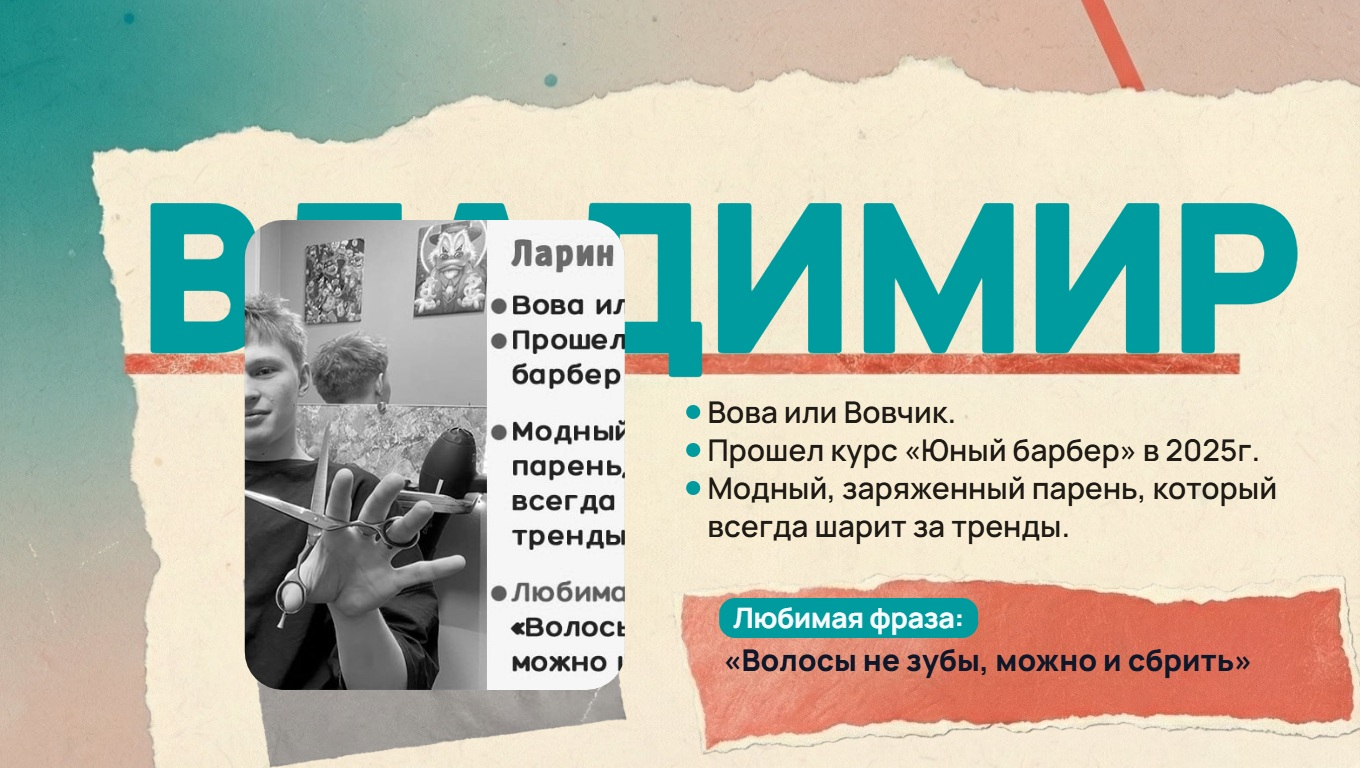
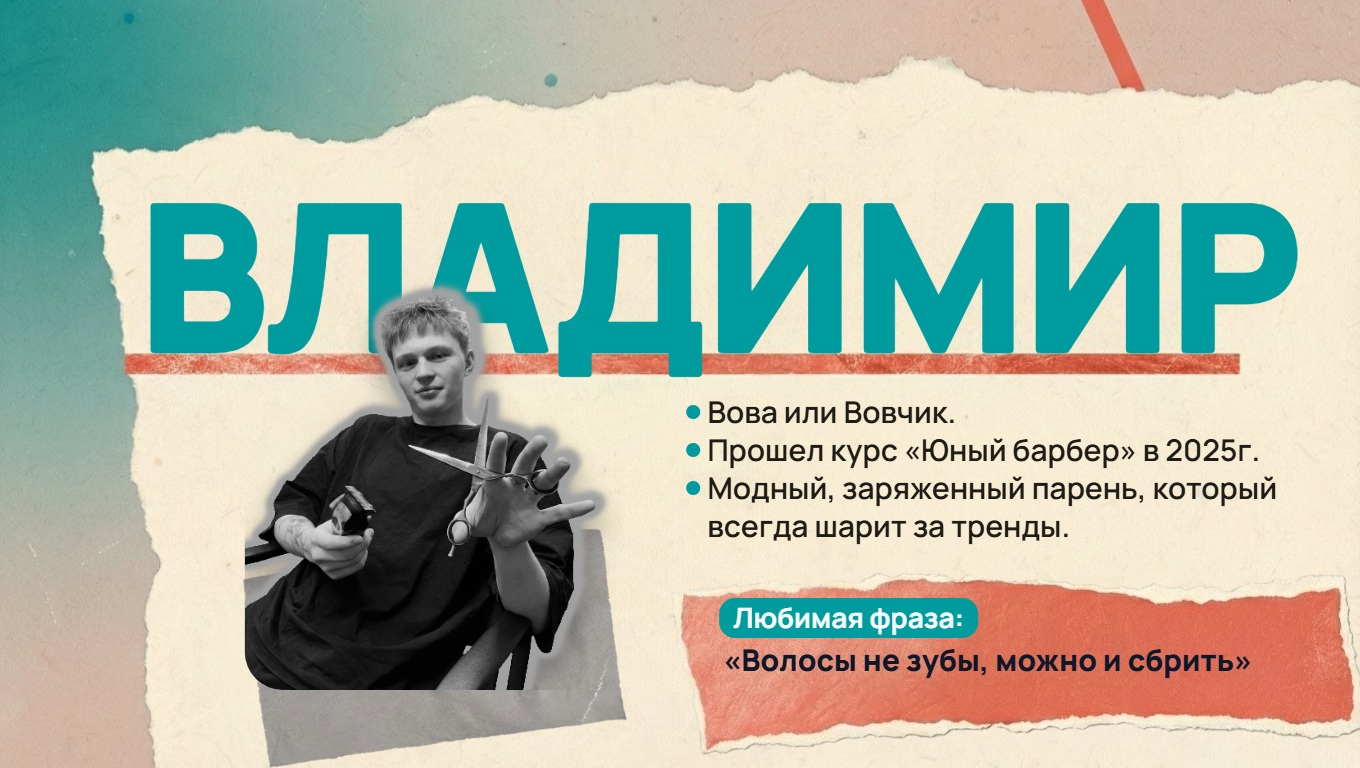
Обнова хромакея

Changed region(s): [[0.1544, 0.2812, 0.4632, 0.9062]]

diff --git a/script.js b/script.js
@@ -1820,6 +1820,111 @@ const readFileAsDataUrl = (file) =>
     reader.onerror = () => reject(new Error('Не удалось прочитать файл'));
     reader.readAsDataURL(file);
   });
+const rgbToHsl = (r, g, b) => {
+  const rn = r / 255;
+  const gn = g / 255;
+  const bn = b / 255;
+  const max = Math.max(rn, gn, bn);
+  const min = Math.min(rn, gn, bn);
+  const delta = max - min;
+  let h = 0;
+  let s = 0;
+  const l = (max + min) / 2;
+  if (delta !== 0) {
+    s = l > 0.5 ? delta / (2 - max - min) : delta / (max + min);
+    switch (max) {
+      case rn:
+        h = (gn - bn) / delta + (gn < bn ? 6 : 0);
+        break;
+      case gn:
+        h = (bn - rn) / delta + 2;
+        break;
+      default:
+        h = (rn - gn) / delta + 4;
+        break;
+    }
+    h *= 60;
+  }
+  return { h, s, l };
+};
+const stripGreenBackground = async (dataUrl, options = {}) => {
+  if (!dataUrl || typeof document === 'undefined') return dataUrl;
+  const {
+    keyHue,
+    hueTolerance = 24,
+    feather = 12,
+    satThreshold = 0.25,
+    greenBias = 16,
+    edgeBandRatio = 0.08,
+    sampleStep = 4,
+  } = options;
+  try {
+    const image = await loadImageElement(dataUrl);
+    const canvas = document.createElement('canvas');
+    canvas.width = image.width || 1;
+    canvas.height = image.height || 1;
+    const ctx = canvas.getContext('2d');
+    ctx.drawImage(image, 0, 0, canvas.width, canvas.height);
+    const imageData = ctx.getImageData(0, 0, canvas.width, canvas.height);
+    const { data } = imageData;
+    const w = canvas.width;
+    const h = canvas.height;
+    const band = Math.max(1, Math.round(Math.min(w, h) * edgeBandRatio));
+    const step = Math.max(1, sampleStep);
+    const greenHues = [];
+    const pushSample = (x, y) => {
+      const idx = (y * w + x) * 4;
+      const r = data[idx];
+      const g = data[idx + 1];
+      const b = data[idx + 2];
+      if (g <= Math.max(r, b) + greenBias) return;
+      const { h: sampleHue, s } = rgbToHsl(r, g, b);
+      if (s < satThreshold) return;
+      greenHues.push(sampleHue);
+    };
+    if (!Number.isFinite(keyHue)) {
+      for (let y = 0; y < band; y += step) {
+        for (let x = 0; x < w; x += step) pushSample(x, y);
+      }
+      for (let y = h - band; y < h; y += step) {
+        for (let x = 0; x < w; x += step) pushSample(x, y);
+      }
+      for (let x = 0; x < band; x += step) {
+        for (let y = 0; y < h; y += step) pushSample(x, y);
+      }
+      for (let x = w - band; x < w; x += step) {
+        for (let y = 0; y < h; y += step) pushSample(x, y);
+      }
+    }
+    const detectedHue =
+      Number.isFinite(keyHue) || !greenHues.length
+        ? Number.isFinite(keyHue) ? keyHue : 110
+        : greenHues.reduce((sum, hue) => sum + hue, 0) / greenHues.length;
+    const hueFeatherStart = Math.max(0, hueTolerance - feather);
+    for (let i = 0; i < data.length; i += 4) {
+      const r = data[i];
+      const g = data[i + 1];
+      const b = data[i + 2];
+      const a = data[i + 3];
+      if (g <= Math.max(r, b) + greenBias) continue;
+      const { h: pixelHue, s } = rgbToHsl(r, g, b);
+      if (s < satThreshold) continue;
+      const hueDiff = Math.min(Math.abs(pixelHue - detectedHue), 360 - Math.abs(pixelHue - detectedHue));
+      if (hueDiff > hueTolerance + feather) continue;
+      if (hueDiff <= hueFeatherStart) {
+        data[i + 3] = 0;
+      } else {
+        const factor = Math.min(1, (hueDiff - hueFeatherStart) / Math.max(feather, 1));
+        data[i + 3] = Math.round(a * factor);
+      }
+    }
+    ctx.putImageData(imageData, 0, 0);
+    return canvas.toDataURL('image/png');
+  } catch (error) {
+    console.warn('Chroma removal failed', error);
+    return dataUrl;
+  }
+};
 const CARD_CANVAS_WIDTH = 1360;
 const CARD_CANVAS_HEIGHT = 768;
 const CARD_BACKGROUND_IMAGE = resolveAssetUrl('card/background.jpg');
@@ -2056,10 +2161,11 @@ const BarberAvatarPicker = ({
     }
   }, [cardImageUrl, selectedCardMode]);
   useEffect(() => {
-    if (!cardPhoto && normalizedValue && !normalizedValue.endsWith('background.jpg')) {
-      setCardPhoto(normalizedValue);
-    }
-  }, [normalizedValue, cardPhoto]);
+    setCardPhoto((prev) => {
+      const nextPhoto = normalizedValue && !normalizedValue.endsWith('background.jpg') ? normalizedValue : '';
+      return nextPhoto === prev ? prev : nextPhoto;
+    });
+  }, [normalizedValue]);
   const availableOptions = useMemo(() => {
     if (!normalizedValue || avatarOptions.includes(normalizedValue)) return avatarOptions;
     return [normalizedValue, ...avatarOptions];
@@ -2105,6 +2211,15 @@ const BarberAvatarPicker = ({
       setLoading(false);
     }
   }, [requestAvatarOptions]);
+  const applyAvatarValue = useCallback(
+    (nextValue) => {
+      const normalized = normalizeImagePath(nextValue || '');
+      const safePhoto = normalized && !normalized.endsWith('background.jpg') ? normalized : '';
+      setCardPhoto(safePhoto);
+      onChange?.(normalized);
+    },
+    [onChange],
+  );
   const handleUploadFile = useCallback(
     async (file) => {
       if (!file || typeof onUpload !== 'function') return;
@@ -2120,12 +2235,11 @@ const BarberAvatarPicker = ({
       setActionBusy(true);
       try {
         const dataUrl = await readFileAsDataUrl(file);
-        const result = await onUpload({ name: file.name, data: dataUrl });
+        const cleanedDataUrl = await stripGreenBackground(dataUrl);
+        const result = await onUpload({ name: file.name, data: cleanedDataUrl });
         await refreshAvatarOptions();
-        const uploadedPath = result?.path || result?.image || null;
-        if (uploadedPath) {
-          onChange?.(normalizeImagePath(uploadedPath));
-        }
+        const uploadedPath = normalizeImagePath(result?.path || result?.image || '');
+        applyAvatarValue(uploadedPath);
         setShowGallery(true);
       } catch (error) {
         console.error('Avatar upload error', error);
@@ -2134,7 +2248,7 @@ const BarberAvatarPicker = ({
         setActionBusy(false);
       }
     },
-    [onUpload, onChange, refreshAvatarOptions],
+    [onUpload, refreshAvatarOptions, applyAvatarValue],
   );
   const handleFileInputChange = useCallback(
     (event) => {
@@ -2160,18 +2274,35 @@ const BarberAvatarPicker = ({
         return;
       }
       setRenderError('');
+      setActionError('');
+      let busy = false;
       try {
         const dataUrl = await readFileAsDataUrl(file);
-        const normalized = normalizeImagePath(dataUrl);
-        setCardPhoto(normalized);
+        const cleanedDataUrl = await stripGreenBackground(dataUrl);
+        let normalized = normalizeImagePath(cleanedDataUrl);
+        if (typeof onUpload === 'function') {
+          setActionBusy(true);
+          busy = true;
+          const result = await onUpload({ name: file.name, data: cleanedDataUrl });
+          const uploadedPath = normalizeImagePath(result?.path || result?.image || '');
+          if (uploadedPath) {
+            normalized = uploadedPath;
+          }
+        }
+        applyAvatarValue(normalized);
         setAvatarOptions((prev) => [normalized, ...prev.filter((item) => item !== normalized)]);
         setShowGallery(true);
-        onChange?.(normalized);
       } catch (error) {
+        console.error('Avatar photo upload error', error);
+        setActionError(error.message || 'Не удалось сохранить фото.');
         setRenderError(error.message || 'Не удалось сформировать превью карточки.');
+      } finally {
+        if (busy) {
+          setActionBusy(false);
+        }
       }
     },
-    [],
+    [onUpload, applyAvatarValue],
   );
   const handleDeleteImage = useCallback(
     async (target) => {
@@ -2181,8 +2312,9 @@ const BarberAvatarPicker = ({
       try {
         await onDelete(target);
         await refreshAvatarOptions();
-        if (normalizeImagePath(target) === normalizedValue) {
-          onChange?.('');
+        const normalizedTarget = normalizeImagePath(target);
+        if (normalizedTarget === normalizedValue) {
+          applyAvatarValue('');
         }
       } catch (error) {
         console.error('Avatar delete error', error);
@@ -2191,7 +2323,7 @@ const BarberAvatarPicker = ({
         setActionBusy(false);
       }
     },
-    [onDelete, refreshAvatarOptions, normalizedValue, onChange],
+    [onDelete, refreshAvatarOptions, normalizedValue, applyAvatarValue],
   );
   const previewSrc = normalizedValue ? resolveAssetUrl(normalizedValue) : '';
   const photoPreview = cardPhoto ? resolveAssetUrl(cardPhoto) : '';
@@ -2665,24 +2797,25 @@ const BarberAvatarPicker = ({
                 {showGallery && availableOptions.length > 0 && (
                   <div className="grid grid-cols-2 gap-3 sm:grid-cols-4">
                     {availableOptions.map((preset) => {
-                      const isSelected = preset === normalizedValue;
+                      const normalizedPreset = normalizeImagePath(preset);
+                      const isSelected = normalizedPreset === normalizedValue;
                       return (
                         <button
                           type="button"
                           key={preset}
-                          onClick={() => onChange(preset)}
+                          onClick={() => applyAvatarValue(normalizedPreset)}
                           className={classNames(
                             'group relative overflow-hidden rounded-2xl border p-1.5 transition hover:border-indigo-400 hover:bg-slate-800',
                             isSelected ? 'border-indigo-500 bg-indigo-500/15' : 'border-slate-700 bg-slate-900',
                           )}
                         >
-                          <img src={resolveAssetUrl(preset)} alt="card preset" className="h-20 w-full rounded-xl object-cover" />
+                          <img src={resolveAssetUrl(normalizedPreset)} alt="card preset" className="h-20 w-full rounded-xl object-cover" />
                           {typeof onDelete === 'function' && (
                             <button
                               type="button"
                               onClick={(event) => {
                                 event.stopPropagation();
-                                handleDeleteImage(preset);
+                                handleDeleteImage(normalizedPreset);
                               }}
                               className="absolute right-1 top-1 rounded-full bg-slate-900/70 p-1 text-slate-200 opacity-0 transition hover:bg-rose-600/80 hover:text-white group-hover:opacity-100 disabled:cursor-not-allowed"
                               disabled={actionBusy}
@@ -2849,20 +2982,36 @@ const BarbersView = ({
     () => sortedPositions.find((item) => item.id === workingBarber?.positionId) || null,
     [sortedPositions, workingBarber?.positionId]
   );
+  const avatarSyncRef = useRef({ id: null, avatar: '' });
   useEffect(() => {
     if (!editorState.open) {
       setPendingAvatar('');
       cardSaverRef.current = null;
+      avatarSyncRef.current = { id: null, avatar: '' };
       return;
     }
     if (isCreateMode) {
-      setPendingAvatar(draftBarber.avatarUrl || '');
-    } else if (activeBarber) {
-      setPendingAvatar(activeBarber.avatarUrl || '');
-    } else {
-      setPendingAvatar('');
+      const next = draftBarber.avatarUrl || '';
+      avatarSyncRef.current = { id: 'create', avatar: next };
+      setPendingAvatar(next);
+      return;
     }
-  }, [editorState.open, isCreateMode, draftBarber.avatarUrl, activeBarber?.avatarUrl, activeBarber]);
+    const targetId = activeBarber?.id || null;
+    const nextAvatar = activeBarber?.avatarUrl || '';
+    const { id: syncedId, avatar: syncedAvatar } = avatarSyncRef.current;
+    const normalizedNext = normalizeImagePath(nextAvatar);
+    const normalizedSynced = normalizeImagePath(syncedAvatar || '');
+    const barberChanged = syncedId !== targetId;
+    const avatarChanged = normalizedNext !== normalizedSynced;
+    if (!barberChanged && !avatarChanged) return;
+    setPendingAvatar((prev) => {
+      const normalizedPrev = normalizeImagePath(prev || '');
+      const allowSync = barberChanged || (avatarChanged && normalizedPrev === normalizedSynced);
+      if (!allowSync) return prev;
+      avatarSyncRef.current = { id: targetId, avatar: nextAvatar };
+      return nextAvatar;
+    });
+  }, [editorState.open, isCreateMode, draftBarber.avatarUrl, activeBarber?.id, activeBarber?.avatarUrl]);
   useEffect(() => {
     setShowPassword(false);
   }, [editorState.open, editorState.mode, editorState.targetId]);
@@ -8276,7 +8425,7 @@ const handleBarberFieldChange = (id, field, value) => {
     if (!barber?.id) return null;
     try {
       const response = await apiRequest(`/Barbers/${encodeURIComponent(barber.id)}`, { method: 'PUT', body: JSON.stringify(buildBarberPayload(barber)) });
-      const updatedBarber = response || barber;
+      const updatedBarber = { ...barber, ...(response || {}) }; // сохраняем локально выбранный avatarUrl, если сервер его не вернул
       setBarbers((prev) => prev.map((item) => (item.id === updatedBarber.id ? { ...item, ...updatedBarber } : item)));
       return updatedBarber;
     } catch (error) {
